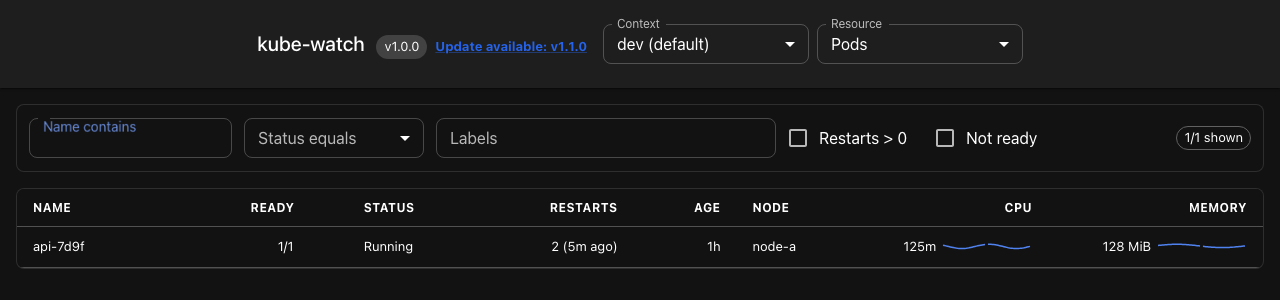
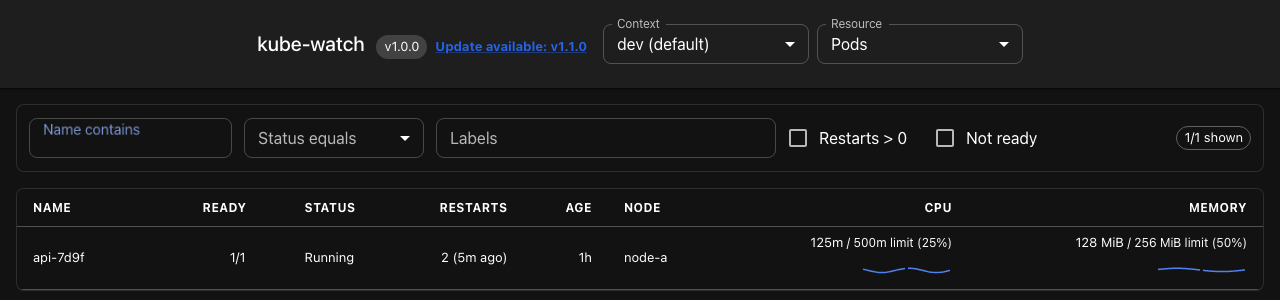
Show allocation comparisons and metrics failure details

diff --git a/web/src/components/MetricsDetails.test.tsx b/web/src/components/MetricsDetails.test.tsx
@@ -48,3 +48,47 @@ describe('metrics presentation', () => {
     expect(metricColumns()[0].sortValue?.(items[0])).toBe(-1)
   })
 })
+
+describe('list allocation comparisons', () => {
+  const container = { name: 'app', usage: { cpu: 125, memory: 128 * 1024 ** 2 }, requests: { cpu: 100, memory: 64 * 1024 ** 2 }, limits: { cpu: 500, memory: 256 * 1024 ** 2 } }
+  const workload: WorkloadMetrics = { ...pod, expected: 1, reporting: 1, containers: [container], requests: container.requests, limits: container.limits }
+  function show(w: WorkloadMetrics, deployment = false, pods = { pod: w }) {
+    const data = { ...snapshot, items: { [w.uid]: w }, pods }
+    render(<>{metricColumns(data).map(column => <div key={column.id}>{column.value({ kind: deployment ? 'Deployment' : 'Pod', metadata: { uid: w.uid } })}</div>)}</>)
+  }
+  it('prefers limits and shows numeric usage percentages', () => {
+    show(workload)
+    expect(screen.getByText('/ 500m limit (25%)')).toBeInTheDocument()
+    expect(screen.getByText('/ 256 MiB limit (50%)')).toBeInTheDocument()
+  })
+  it('falls back to requests independently for CPU and memory', () => {
+    show({ ...workload, limits: { cpu: 0, memory: container.limits.memory }, containers: [{ ...container, limits: { cpu: 0, memory: container.limits.memory } }] })
+    expect(screen.getByText('/ 100m request (125%)')).toBeInTheDocument()
+    expect(screen.getByText('/ 256 MiB limit (50%)')).toBeInTheDocument()
+  })
+  it('falls back to a complete request when only some containers have limits', () => {
+    const unbounded = { ...container, name: 'sidecar', limits: zero }
+    show({ ...workload, expected: 2, reporting: 2, requests: { cpu: 200, memory: 128 * 1024 ** 2 }, containers: [container, unbounded] })
+    expect(screen.getByText('/ 200m request (62.5%)')).toBeInTheDocument()
+    expect(screen.getByText('/ 128 MiB request (100%)')).toBeInTheDocument()
+  })
+  it('marks partial allocations without a misleading percentage', () => {
+    const unset = { ...container, name: 'sidecar', requests: zero, limits: zero }
+    show({ ...workload, expected: 2, reporting: 2, containers: [container, unset] })
+    expect(screen.getByText('/ 500m partial limit')).toBeInTheDocument()
+    expect(screen.getByText('/ 256 MiB partial limit')).toBeInTheDocument()
+  })
+  it('avoids percentages when usage is missing or incomplete', () => {
+    show({ ...workload, reporting: 0, usage: null })
+    expect(screen.getByText('/ 500m limit')).toBeInTheDocument()
+    expect(screen.getByText('/ 256 MiB limit')).toBeInTheDocument()
+  })
+  it('handles workloads with no configured allocation', () => {
+    show({ ...workload, requests: zero, limits: zero, containers: [{ ...container, requests: zero, limits: zero }] })
+    expect(screen.getAllByText('· no request/limit')).toHaveLength(2)
+  })
+  it('uses deployment ownership pods to verify allocation coverage', () => {
+    show({ ...workload, uid: 'deployment', containers: undefined, pods: ['pod'] }, true, { pod: workload })
+    expect(screen.getByText('/ 500m limit (25%)')).toBeInTheDocument()
+  })
+})

diff --git a/web/e2e/app.spec.ts b/web/e2e/app.spec.ts
@@ -496,7 +496,7 @@ test('keeps sparklines beside values when columns have room and wraps them when 
   await expect(row).toContainText('125m')
   const cells = [row.getByRole('cell').filter({ has: page.getByText('125m', { exact: true }) }), row.getByRole('cell').filter({ has: page.getByText('128 MiB', { exact: true }) })]
   for (const cell of cells) {
-    const value = await cell.locator('span').boundingBox()
+    const value = await cell.locator('span').first().locator('..').boundingBox()
     const graph = await cell.getByRole('img').boundingBox()
     expect(value).not.toBeNull()
     expect(graph).not.toBeNull()
@@ -506,9 +506,30 @@ test('keeps sparklines beside values when columns have room and wraps them when 
   await page.setViewportSize({ width: 720, height: 900 })
   for (const cell of cells) {
     await expect.poll(async () => {
-      const value = await cell.locator('span').boundingBox()
+      const value = await cell.locator('span').first().locator('..').boundingBox()
       const graph = await cell.getByRole('img').boundingBox()
       return graph!.y >= value!.y + value!.height
     }).toBe(true)
   }
+})
+
+test('shows the backend failure reason when a metrics request returns 502', async ({ page }) => {
+  const warnings: string[] = []
+  page.on('console', message => { if (message.type() === 'warning') warnings.push(message.text()) })
+  await page.route('**/api/metrics/dev/pods', route => route.fulfill({ status: 502, contentType: 'text/plain', body: 'metrics unavailable: collect pod metrics: context deadline exceeded\n' }))
+  await page.goto('/view/dev/pods')
+  await expect(page.getByText('Metrics request failed (502): metrics unavailable: collect pod metrics: context deadline exceeded')).toBeVisible()
+  await expect(page.getByRole('row', { name: /api-7d9f/ })).toBeVisible()
+  expect(warnings.some(message => message.includes('metrics request failed'))).toBe(true)
+})
+
+test('compares list usage to a limit or falls back to the request', async ({ page }) => {
+  const usage = workloadMetrics('pod-1', pod.metadata.name)
+  usage.limits.cpu = 0
+  usage.containers[0].limits.cpu = 0
+  await page.route('**/api/metrics/dev/pods', route => route.fulfill({ json: { time: metricsNow, items: { 'pod-1': usage }, pods: { 'pod-1': usage } } }))
+  await page.goto('/view/dev/pods')
+  const row = page.getByRole('row', { name: /api-7d9f/ })
+  await expect(row).toContainText('/ 100m request (125%)')
+  await expect(row).toContainText('/ 256 MiB limit (50%)')
 })

diff --git a/web/src/metrics.ts b/web/src/metrics.ts
@@ -30,3 +30,23 @@ export function formatUsage(value: number | undefined, metric: keyof Usage) {
 export function coverage(w: WorkloadMetrics, deployment: boolean) {
   return `${w.reporting} of ${w.expected} ${deployment ? 'pods' : 'containers'} reporting`
 }
+
+function allocationComplete(workload: WorkloadMetrics, field: 'requests' | 'limits', metric: keyof Usage, snapshot: MetricsSnapshot): boolean {
+  if (workload.containers) {
+    return workload.containers.length > 0 && workload.containers.length === workload.expected && workload.containers.every(container => container[field][metric] > 0)
+  }
+  const pods = (workload.pods || []).map(uid => snapshot.pods?.[uid])
+  return pods.length > 0 && pods.length === workload.expected && pods.every(pod => pod && allocationComplete(pod, field, metric, snapshot))
+}
+
+export function allocationLabel(workload: WorkloadMetrics, metric: keyof Usage, snapshot: MetricsSnapshot) {
+  const completeLimit = allocationComplete(workload, 'limits', metric, snapshot)
+  const completeRequest = allocationComplete(workload, 'requests', metric, snapshot)
+  const field = completeLimit ? 'limits' : completeRequest ? 'requests' : workload.limits[metric] > 0 ? 'limits' : 'requests'
+  const value = workload[field][metric]
+  if (!value) return ' · no request/limit'
+  const complete = field === 'limits' ? completeLimit : completeRequest
+  const percentage = complete && workload.usage && workload.reporting === workload.expected
+    ? ` (${Number((workload.usage[metric] / value * 100).toFixed(1))}%)` : ''
+  return ` / ${formatUsage(value, metric)} ${complete ? '' : 'partial '}${field === 'limits' ? 'limit' : 'request'}${percentage}`
+}

diff --git a/web/src/hooks/useMetrics.test.tsx b/web/src/hooks/useMetrics.test.tsx
@@ -4,6 +4,15 @@ import { useMetrics } from './useMetrics'
 
 afterEach(() => { cleanup(); vi.useRealTimers(); vi.unstubAllGlobals() })
 describe('metrics polling', () => {
+  it('preserves backend error details in the UI and browser console', async () => {
+    const warn = vi.spyOn(console, 'warn').mockImplementation(() => {})
+    vi.stubGlobal('fetch', vi.fn().mockResolvedValue({ ok: false, status: 502, text: async () => 'metrics unavailable: resolve deployment metrics: context deadline exceeded\n' }))
+    const { result } = renderHook(() => useMetrics('dev', 'deployments'))
+    await act(async () => {})
+    expect(result.current.error).toBe('Metrics request failed (502): metrics unavailable: resolve deployment metrics: context deadline exceeded')
+    expect(warn).toHaveBeenCalledWith('metrics request failed', expect.objectContaining({ context: 'dev', resource: 'deployments', error: expect.any(Error) }))
+    warn.mockRestore()
+  })
   it('polls once per view, clears failures on recovery and aborts on navigation', async () => {
     vi.useFakeTimers()
     const snapshot = { time: 123, items: {}, pods: {} }
@@ -13,7 +22,7 @@ describe('metrics polling', () => {
     await act(async () => {})
     expect(fetchMock.mock.calls[0][0]).toBe('/api/metrics/dev%2Fa/pods')
     expect(result.current.snapshot).toEqual(snapshot)
-    fetchMock.mockResolvedValueOnce({ ok: false, status: 403 })
+    fetchMock.mockResolvedValueOnce({ ok: false, status: 403, text: async () => '' })
     await act(async () => { await vi.advanceTimersByTimeAsync(15_000) })
     expect(result.current.error).toContain('403')
     expect(result.current.snapshot).toBeUndefined()

diff --git a/web/src/components/MetricsDetails.tsx b/web/src/components/MetricsDetails.tsx
@@ -1,5 +1,5 @@
 import { Alert, Box, Stack, Table, TableBody, TableCell, TableContainer, TableHead, TableRow, Typography } from '@mui/material'
-import { coverage, formatUsage, type ContainerMetrics, type MetricsSnapshot, type WorkloadMetrics, type Usage } from '../metrics'
+import { allocationLabel, coverage, formatUsage, type ContainerMetrics, type MetricsSnapshot, type WorkloadMetrics, type Usage } from '../metrics'
 import type { Column } from '../types'
 import { UsageChart } from './UsageChart'
 
@@ -10,7 +10,10 @@ export function metricColumns(snapshot?: MetricsSnapshot): Column[] {
     value: object => {
       const w = snapshot?.items?.[object.metadata?.uid]
       return <Stack direction="row" sx={{ flexWrap: 'wrap', alignItems: 'center', justifyContent: 'flex-end', gap: 0.75 }} title={w ? coverage(w, object.kind === 'Deployment') : 'Metrics unavailable'}>
-        <span style={{ whiteSpace: 'nowrap' }}>{formatUsage(w?.usage?.[metric], metric)}{w && w.reporting < w.expected && w.usage ? ' *' : ''}</span>
+        <Box sx={{ whiteSpace: 'nowrap' }}>
+          <span>{formatUsage(w?.usage?.[metric], metric)}{w && w.reporting < w.expected && w.usage ? ' *' : ''}</span>
+          {w && snapshot && <Typography component="span" variant="caption" color="text.secondary">{allocationLabel(w, metric, snapshot)}</Typography>}
+        </Box>
         {w && snapshot && <UsageChart points={w.history} metric={metric} now={snapshot.time} compact />}
       </Stack>
     },

diff --git a/web/src/hooks/useMetrics.ts b/web/src/hooks/useMetrics.ts
@@ -13,11 +13,17 @@ export function useMetrics(ctx: string, resource: string) {
     const poll = async () => {
       try {
         const response = await fetch(`/api/metrics/${encodeURIComponent(ctx)}/${resource}`, { signal: controller.signal })
-        if (!response.ok) throw new Error(`Metrics request failed (${response.status})`)
+        if (!response.ok) {
+          const details = (await response.text()).trim()
+          throw new Error(`Metrics request failed (${response.status})${details ? `: ${details}` : ''}`)
+        }
         const snapshot: MetricsSnapshot = await response.json()
         if (!disposed) setState({ key, snapshot, error: snapshot.error })
       } catch (error) {
-        if (!disposed) setState({ key, error: error instanceof Error ? error.message : 'Metrics unavailable' })
+        if (!disposed) {
+          console.warn('metrics request failed', { context: ctx, resource, error })
+          setState({ key, error: error instanceof Error ? error.message : 'Metrics unavailable' })
+        }
       } finally {
         if (!disposed) timer = setTimeout(poll, 15_000)
       }

diff --git a/web/src/components/ResourceTable.tsx b/web/src/components/ResourceTable.tsx
@@ -80,7 +80,7 @@ export function ResourceTable({
                   return next
                 })}
               >
-                {columns.map(column => <TableCell key={column.id} align={column.align}>{column.value(item)}</TableCell>)}
+                {columns.map(column => <TableCell key={column.id} align={column.align} sx={column.id === 'name' ? { whiteSpace: 'nowrap' } : undefined}>{column.value(item)}</TableCell>)}
               </TableRow>
             )
           })}

diff --git a/metrics_test.go b/metrics_test.go
@@ -1,8 +1,10 @@
 package main
 
 import (
+	"bytes"
 	"context"
 	"errors"
+	"log/slog"
 	"net/http/httptest"
 	"strings"
 	"sync"
@@ -365,5 +367,60 @@ func TestMetricsCancellationDoesNotPoisonSharedCache(t *testing.T) {
 				t.Fatal("cancellation created an artificial gap")
 			}
 		})
+	}
+}
+
+func TestMetricsRequestFailureDiagnostics(t *testing.T) {
+	var logs bytes.Buffer
+	original := slog.Default()
+	slog.SetDefault(slog.New(slog.NewJSONHandler(&logs, nil)))
+	t.Cleanup(func() { slog.SetDefault(original) })
+	m, _ := metricsFixture(t)
+	m.newClient = func(string) (dynamic.Interface, string, error) {
+		return nil, "", errors.New("credential provider unavailable")
+	}
+	response := httptest.NewRecorder()
+	m.ServeHTTP(response, httptest.NewRequest("GET", "/api/metrics/prod/deployments", nil))
+	if response.Code != 502 || !strings.Contains(response.Body.String(), "credential provider unavailable") {
+		t.Fatalf("missing response detail: %d %s", response.Code, response.Body.String())
+	}
+	for _, detail := range []string{`"level":"ERROR"`, `"msg":"metrics request failed"`, `"cluster":"prod"`, `"resource":"deployments"`, `"duration":`, `"error":"credential provider unavailable"`} {
+		if !strings.Contains(logs.String(), detail) {
+			t.Errorf("missing %s in log: %s", detail, logs.String())
+		}
+	}
+	logs.Reset()
+	ctx, cancel := context.WithCancel(context.Background())
+	cancel()
+	m.ServeHTTP(httptest.NewRecorder(), httptest.NewRequest("GET", "/api/metrics/prod/deployments", nil).WithContext(ctx))
+	if logs.Len() != 0 {
+		t.Fatalf("ordinary cancellation logged as failure: %s", logs.String())
+	}
+}
+
+func TestMetricsCollectionFailuresLogOncePerCollection(t *testing.T) {
+	var logs bytes.Buffer
+	original := slog.Default()
+	slog.SetDefault(slog.New(slog.NewJSONHandler(&logs, nil)))
+	t.Cleanup(func() { slog.SetDefault(original) })
+	m, client := metricsFixture(t)
+	client.PrependReactor("list", "*", func(action ktesting.Action) (bool, runtime.Object, error) {
+		if action.GetResource() == podMetricsGVR || action.GetResource() == supportedResources["replicasets"] {
+			return true, nil, errors.New("fixture permission denied")
+		}
+		return false, nil, nil
+	})
+	if _, err := m.snapshot(context.Background(), "prod", "deployments"); err != nil {
+		t.Fatal(err)
+	}
+	if !strings.Contains(logs.String(), `"msg":"pod metrics unavailable"`) || !strings.Contains(logs.String(), `"msg":"deployment metrics unavailable"`) || !strings.Contains(logs.String(), `"namespace":"test"`) || !strings.Contains(logs.String(), "fixture permission denied") {
+		t.Fatalf("missing collection diagnostics: %s", logs.String())
+	}
+	before := logs.String()
+	if _, err := m.snapshot(context.Background(), "prod", "deployments"); err != nil {
+		t.Fatal(err)
+	}
+	if logs.String() != before {
+		t.Fatal("cached response repeated collection logs")
 	}
 }

diff --git a/metrics.go b/metrics.go
@@ -4,6 +4,7 @@ import (
 	"context"
 	"encoding/json"
 	"fmt"
+	"log/slog"
 	"net/http"
 	"sync"
 	"time"
@@ -130,7 +131,10 @@ func (m *MetricsManager) snapshot(ctx context.Context, cluster, kind string) (me
 			// A cancelled browser request must not poison the shared cache.
 			e.polled = time.Time{}
 			e.deploymentPolled = time.Time{}
-			return metricsSnapshot{}, err
+			return metricsSnapshot{}, fmt.Errorf("collect pod metrics: %w", err)
+		}
+		if e.err != "" {
+			slog.Warn("pod metrics unavailable", "cluster", cluster, "namespace", e.namespace, "error", e.err)
 		}
 		e.polled = now
 		for key, points := range e.histories {
@@ -150,7 +154,10 @@ func (m *MetricsManager) snapshot(ctx context.Context, cluster, kind string) (me
 			e.refreshDeployments(ctx, now)
 			if err := ctx.Err(); err != nil {
 				e.deploymentPolled = time.Time{}
-				return metricsSnapshot{}, err
+				return metricsSnapshot{}, fmt.Errorf("resolve deployment metrics: %w", err)
+			}
+			if e.deploymentErr != "" {
+				slog.Warn("deployment metrics unavailable", "cluster", cluster, "namespace", e.namespace, "error", e.deploymentErr)
 			}
 			e.deploymentPolled = e.polled
 		}
@@ -382,6 +389,7 @@ func (m *MetricsManager) ServeHTTP(w http.ResponseWriter, r *http.Request) {
 		http.Error(w, "unsupported metrics resource", http.StatusBadRequest)
 		return
 	}
+	started := time.Now()
 	ctx, cancel := context.WithTimeout(r.Context(), 12*time.Second)
 	defer cancel()
 	snapshot, err := m.snapshot(ctx, cluster, kind)
@@ -389,6 +397,7 @@ func (m *MetricsManager) ServeHTTP(w http.ResponseWriter, r *http.Request) {
 		if r.Context().Err() != nil {
 			return
 		}
+		slog.Error("metrics request failed", "cluster", cluster, "resource", kind, "duration", time.Since(started), "error", err)
 		http.Error(w, fmt.Sprintf("metrics unavailable: %v", err), http.StatusBadGateway)
 		return
 	}

diff --git a/README.md b/README.md
@@ -142,9 +142,9 @@ Next planned improvements include CLI flags for log level, snapshot persistence,
 
 ### CPU and memory trends
 
-Pods and Deployments show sortable CPU (millicores) and memory (MiB/GiB) columns with 15-minute sparklines. Values and sparklines share a line when the column has room, with the sparkline wrapping underneath in narrower columns. Select a row and open **Metrics** for larger charts, sampled values on hover, configured request/limit reference lines with labelled colour swatches, and container or pod breakdowns. Equal request and limit values share one dashed line so their patterns do not overlap. The panel can be maximized like the other detail tabs.
+Pods and Deployments show sortable CPU (millicores) and memory (MiB/GiB) columns with 15-minute sparklines. Each usage value includes its limit and percentage used, falling back to the request when no complete limit is configured. The label identifies the baseline; partially configured allocations are marked partial and percentages are omitted when allocation or usage coverage is incomplete. Values and sparklines share a line when the column has room, with the sparkline wrapping underneath in narrower columns. Select a row and open **Metrics** for larger charts, sampled values on hover, configured request/limit reference lines with labelled colour swatches, and container or pod breakdowns. Equal request and limit values share one dashed line so their patterns do not overlap. The panel can be maximized like the other detail tabs.
 
-Metrics use the Kubernetes Metrics API, the source behind `kubectl top`. The active kubeconfig user needs `list` on `pods.metrics.k8s.io` and core `pods` in the context's namespace. Deployment metrics additionally need `list` on `replicasets.apps` and `deployments.apps`. kube-watch does not install Metrics Server or change RBAC. Missing API access is shown as a warning while the resource list remains usable.
+Metrics use the Kubernetes Metrics API, the source behind `kubectl top`. The active kubeconfig user needs `list` on `pods.metrics.k8s.io` and core `pods` in the context's namespace. Deployment metrics additionally need `list` on `replicasets.apps` and `deployments.apps`. kube-watch does not install Metrics Server or change RBAC. Missing API access is shown as a warning while the resource list remains usable. Failed HTTP requests include the backend response detail in the warning and browser console. Backend logs record request failures with context, resource, elapsed time, and error, and collection failures with context and namespace; normal browser cancellations stay quiet.
 
 The browser polls `/api/metrics/{context}/{pods|deployments}` every 15 seconds while a supported view is open. The backend shares pod readings across clients and views, refreshing at most once every 15 seconds per context. Deployment ownership follows Deployment → ReplicaSet → Pod, including both ReplicaSets during rolling updates. Deployment totals and averages include fully reporting pods, with reporting coverage shown explicitly; pod totals can be partial when a container is missing. Missing readings display `—`, partial totals carry `*`, and samples older than one minute are excluded. CPU is a measurement-window average and memory is working-set usage. Configured requests/limits are summed; missing limits do not mean zero or that the workload is bounded by the displayed sum.
 
